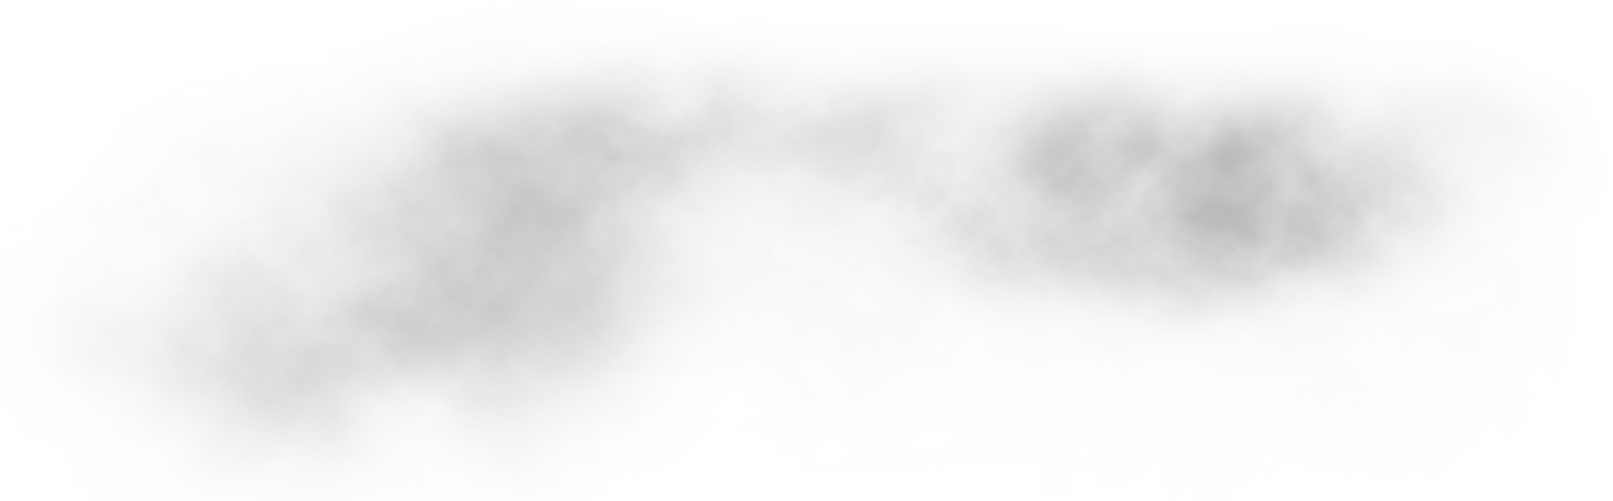
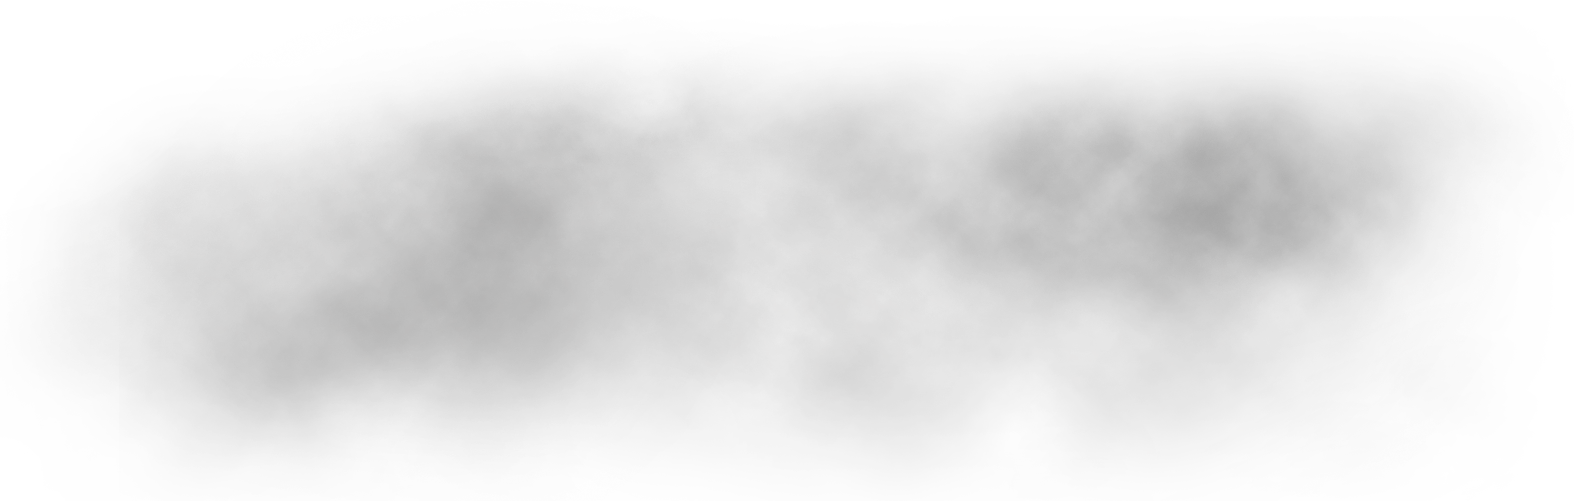
Draw cloud and heart

diff --git a/src/gamestate/Menu.java b/src/gamestate/Menu.java
@@ -22,6 +22,7 @@ public class Menu extends State implements Statemethods {
 
     private BufferedImage[] backgroundImage;
     private BufferedImage cloud;
+    private int scrollCloud;
 
     private int menuX,menuY,menuWidth,menuHeight;
     private BufferedImage MenuBackGround;
@@ -45,8 +46,10 @@ public class Menu extends State implements Statemethods {
             g.drawImage(backgroundImage[4], Game.GAME_WIDTH - (int) (backgroundImage[4].getWidth() * 1.5), (int) (Game.GAME_HEIGHT - backgroundImage[4].getHeight() * 1.5), (int) (backgroundImage[4].getWidth() * 1.5), (int) (backgroundImage[4].getHeight() * 1.5), null);
         if (backgroundImage[3] != null)
             g.drawImage(backgroundImage[3], 0, (int) (Game.GAME_HEIGHT - backgroundImage[3].getHeight() * 2), (int) (backgroundImage[3].getWidth() * 2), (int) (backgroundImage[3].getHeight() * 2), null);
-        if(cloud!=null){
-            g.drawImage(cloud,0,-150,Game.GAME_WIDTH,400,null);
+        for(int i=0;i<2;i++){
+            if(cloud!=null){
+                g.drawImage(cloud,i*Game.GAME_WIDTH+scrollCloud,-150,Game.GAME_WIDTH,400,null);
+            }
         }
     }
 
@@ -76,6 +79,7 @@ public class Menu extends State implements Statemethods {
         loadBackground();
         loadButtons();
         loadMenuBackground();
+        this.scrollCloud = 0;
     }
 
     @Override
@@ -83,6 +87,8 @@ public class Menu extends State implements Statemethods {
         for (MenuButtons mb : buttons){
             mb.update();
         }
+        scrollCloud -= 1;
+        if(scrollCloud <= -Game.GAME_WIDTH) scrollCloud = 0;
     }
 
     @Override

diff --git a/src/gamestate/Playing.java b/src/gamestate/Playing.java
@@ -96,7 +96,7 @@ public class Playing extends State implements Statemethods {
         for (int i = 0; i < amountBgToFillScreen; i++) {
             // LAYER 0
             if (cloud != null)
-                g.drawImage(cloud, i * bgImageWidth - bgOffset, -150, bgImageWidth, 400, null);
+                g.drawImage(cloud, i * bgImageWidth - bgOffset, -200, bgImageWidth, 400, null);
         }
     }
 

diff --git a/src/entities/Player.java b/src/entities/Player.java
@@ -82,7 +82,7 @@ public class Player extends Entity {
 
     private void drawHeart(Graphics g) {
         for(int i=0;i<hearts.size();i++){
-            g.drawImage(hearts.get(i),75+50*i,50,45,45,null);
+            g.drawImage(hearts.get(i),75+50*i,30,45,45,null);
         }
     }
 
